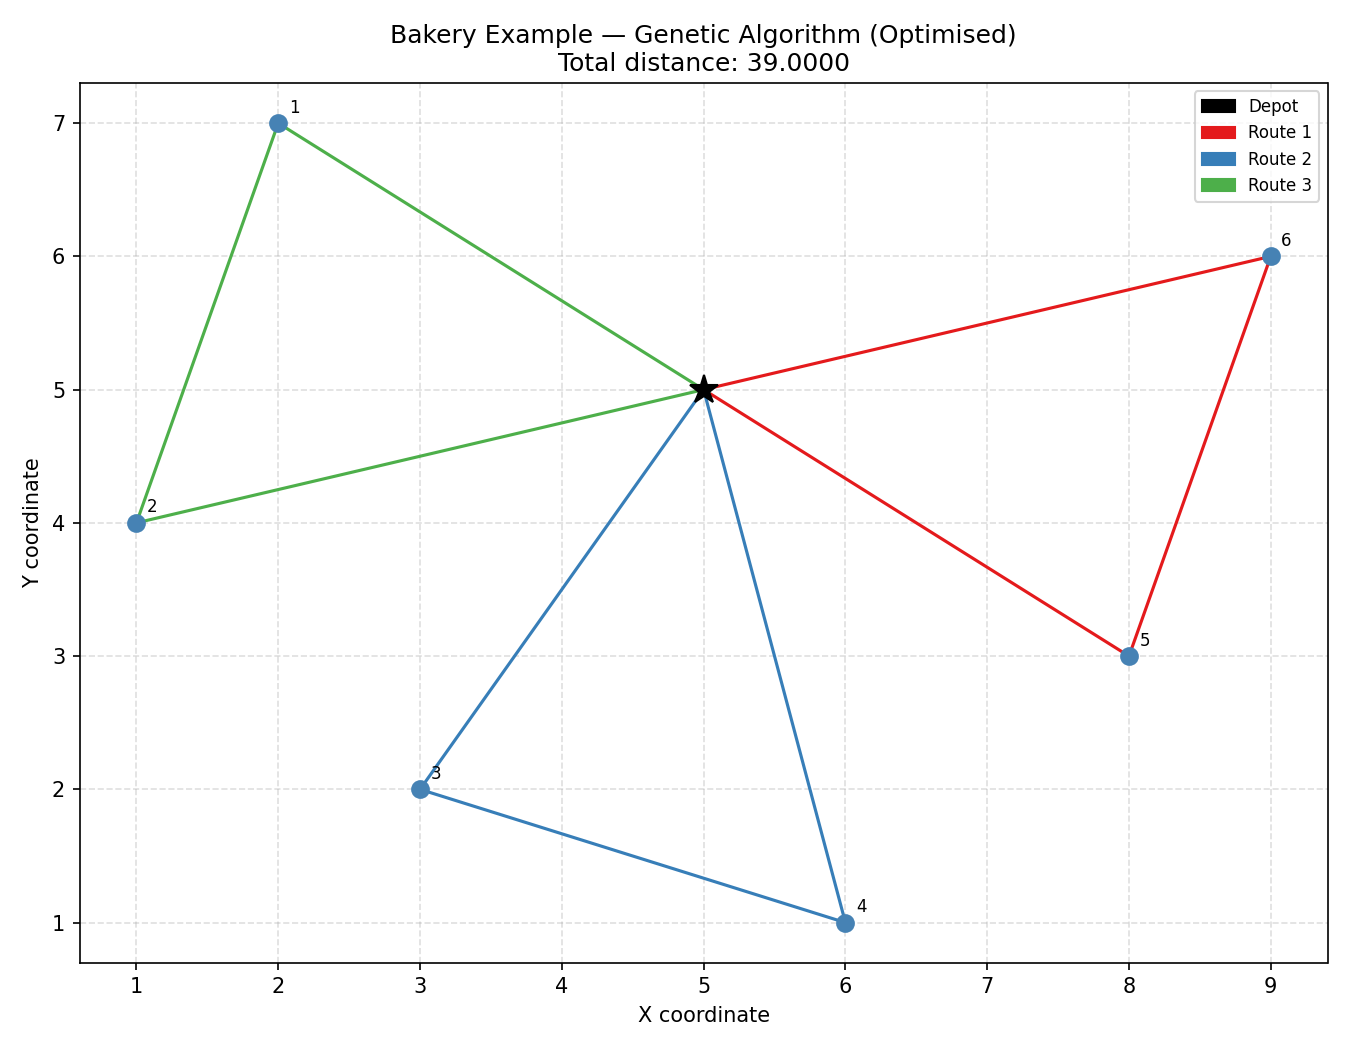
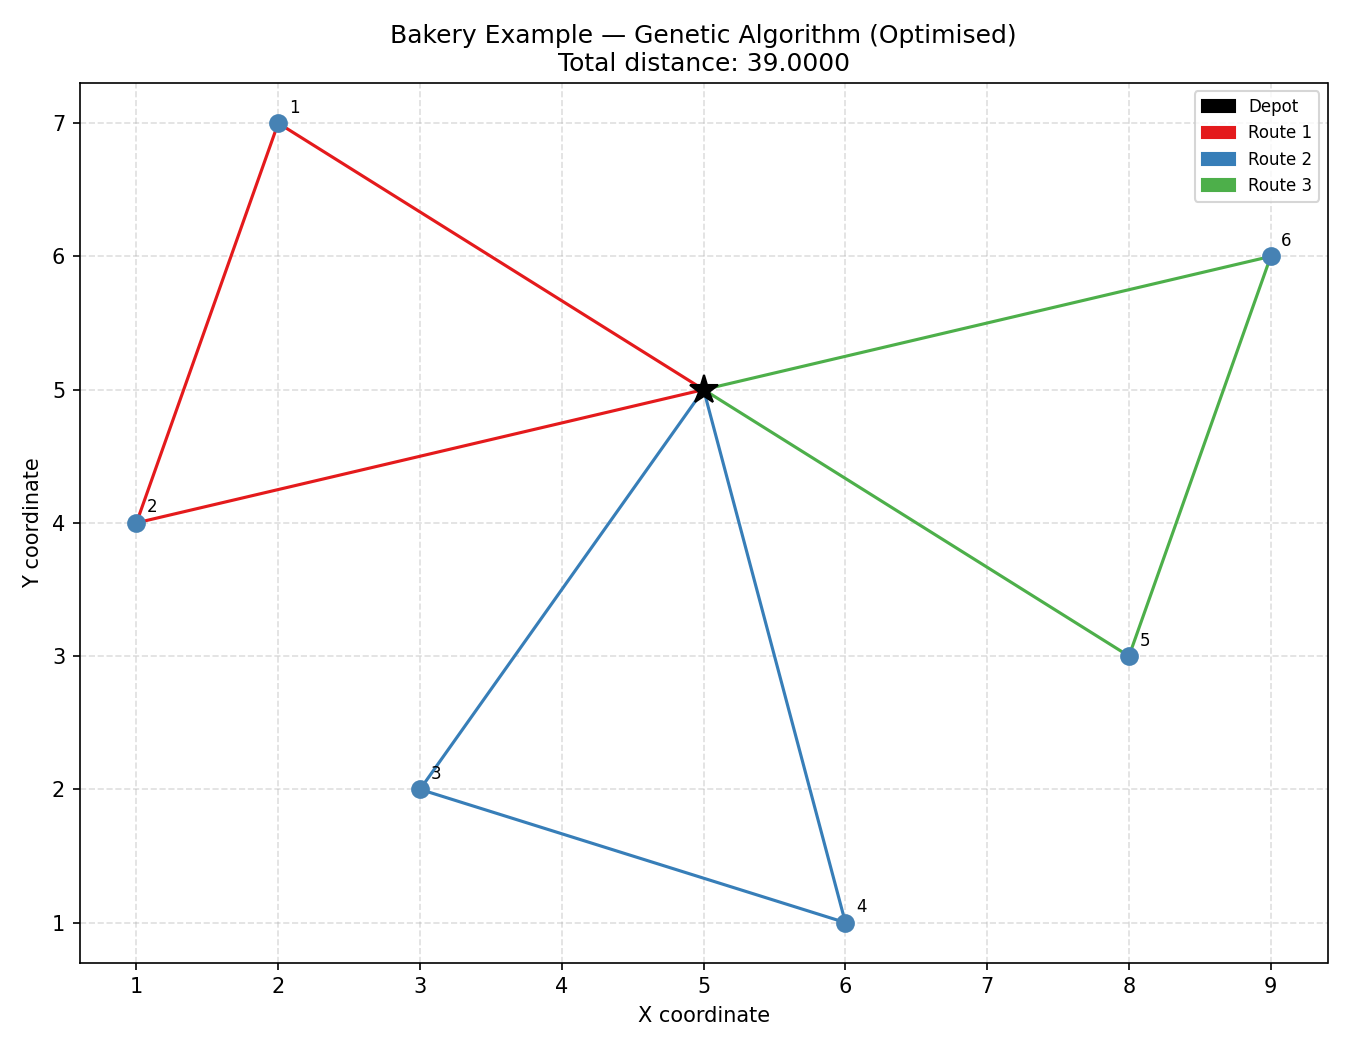
up

diff --git a/src/main.py b/src/main.py
@@ -58,7 +58,7 @@ def _solve_instance(instance: VRPInstance, label: str = "", output_dir: str = "o
     Algorithms = {
         "Clarke-Wright (Naive)": run_naive_solution,
         "Nearest Neighbour + 2-opt (AI)": run_ai_solution,
-        "Genetic Algorithm (Optimised)": run_optimised_solution,
+        "Genetic Algorithm": run_optimised_solution,
     }
 
     # Render the block header
